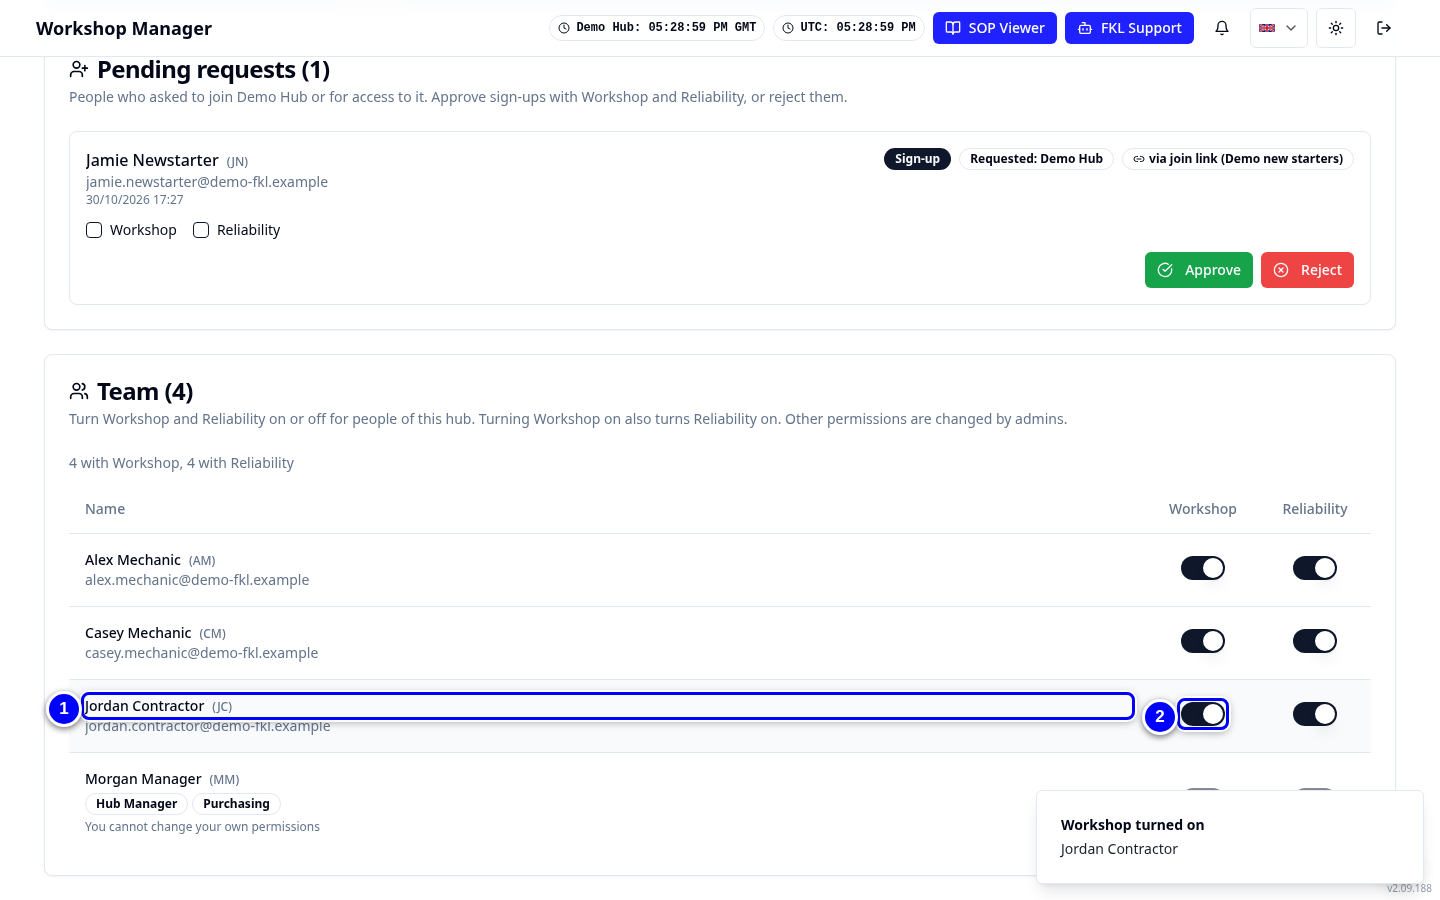
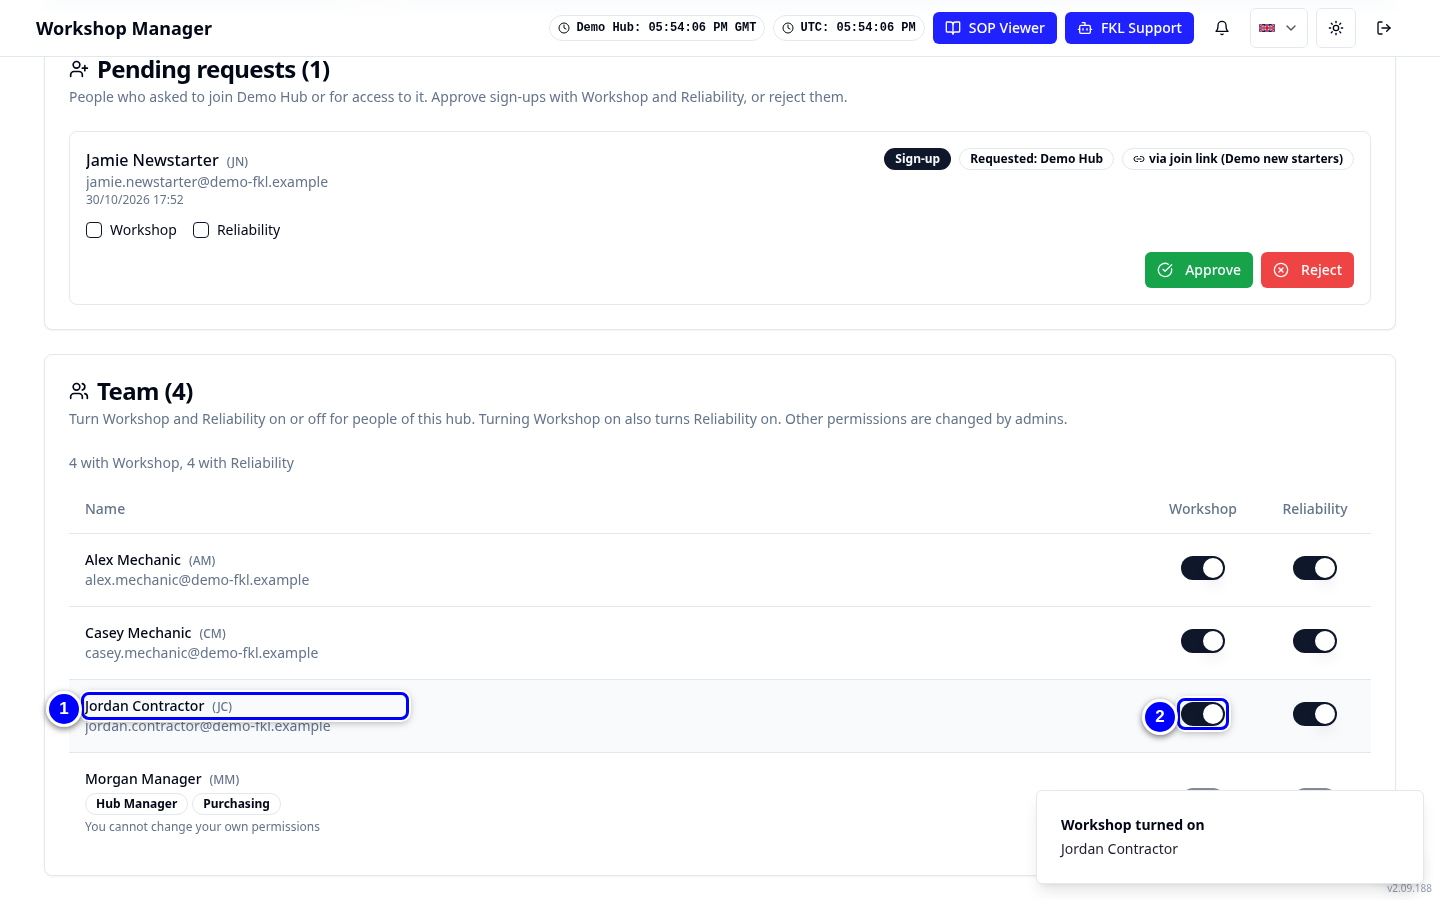
#25b Team tab guide: review fixes and re-shot with the final screen
Full toast texts, permissions belong to the person (every hub), Team lists approved
staff; callout 1 placed below the Team tab.

Changed region(s): [[0.2812, 0.7467, 0.7812, 0.8089]]

diff --git a/docs/hub-manager/team.md b/docs/hub-manager/team.md
@@ -7,6 +7,7 @@ The **Team** tab on **Workshop Manager** lists the people of your hub. You can t
     - Before, hub managers could tick permissions only when approving someone. Now you can change **Workshop** and **Reliability** for anyone already on your team.
     - **Workshop includes Reliability**: turning Workshop on turns Reliability on too. Turning Workshop off leaves Reliability on.
     - Only admins change **Purchasing**, **Hub Manager**, **FKL Central** and admin accounts. You cannot change your own permissions or another hub manager's.
+    - Permissions belong to the person, not the hub: a change applies on every hub they work at.
 
 ## Open the Team tab
 
@@ -14,7 +15,7 @@ The **Team** tab on **Workshop Manager** lists the people of your hub. You can t
 
 1. Tap **Workshop Manager** in the Workshop tab strip, then tap **Team**.
 
-2. **Pending requests** lists people who asked to join your hub or for access to it. Below it, **Team** lists everyone with access to your hub.
+2. **Pending requests** lists people who asked to join your hub or for access to it. Below it, **Team** lists the approved staff with access to your hub.
 
 ## Give someone Workshop or Reliability
 
@@ -24,7 +25,7 @@ The **Team** tab on **Workshop Manager** lists the people of your hub. You can t
 
 2. Turn **Workshop** on. **Reliability** turns on too. KART shows **Workshop turned on**.
 
-3. To take a permission away, turn its switch off. KART shows **turned off**.
+3. To take a permission away, turn its switch off. KART shows **Workshop turned off** or **Reliability turned off**.
 
 !!! note "Remember"
     A switch you cannot move shows why under the name, for example **Admins are managed by admins** or **You cannot change your own permissions**. Ask an admin for those.

diff --git a/content/hub-manager/team.md b/content/hub-manager/team.md
@@ -13,6 +13,7 @@ The **Team** tab on **Workshop Manager** lists the people of your hub. You can t
     - Before, hub managers could tick permissions only when approving someone. Now you can change **Workshop** and **Reliability** for anyone already on your team.
     - **Workshop includes Reliability**: turning Workshop on turns Reliability on too. Turning Workshop off leaves Reliability on.
     - Only admins change **Purchasing**, **Hub Manager**, **FKL Central** and admin accounts. You cannot change your own permissions or another hub manager's.
+    - Permissions belong to the person, not the hub: a change applies on every hub they work at.
 
 ## Open the Team tab
 
@@ -28,7 +29,7 @@ callouts:
 
 1. Tap **Workshop Manager** in the Workshop tab strip, then tap **Team**.
 
-2. **Pending requests** lists people who asked to join your hub or for access to it. Below it, **Team** lists everyone with access to your hub.
+2. **Pending requests** lists people who asked to join your hub or for access to it. Below it, **Team** lists the approved staff with access to your hub.
 
 ## Give someone Workshop or Reliability
 
@@ -46,7 +47,7 @@ callouts:
 
 2. Turn **Workshop** on. **Reliability** turns on too. KART shows **Workshop turned on**.
 
-3. To take a permission away, turn its switch off. KART shows **turned off**.
+3. To take a permission away, turn its switch off. KART shows **Workshop turned off** or **Reliability turned off**.
 
 !!! note "Remember"
     A switch you cannot move shows why under the name, for example **Admins are managed by admins** or **You cannot change your own permissions**. Ask an admin for those.
